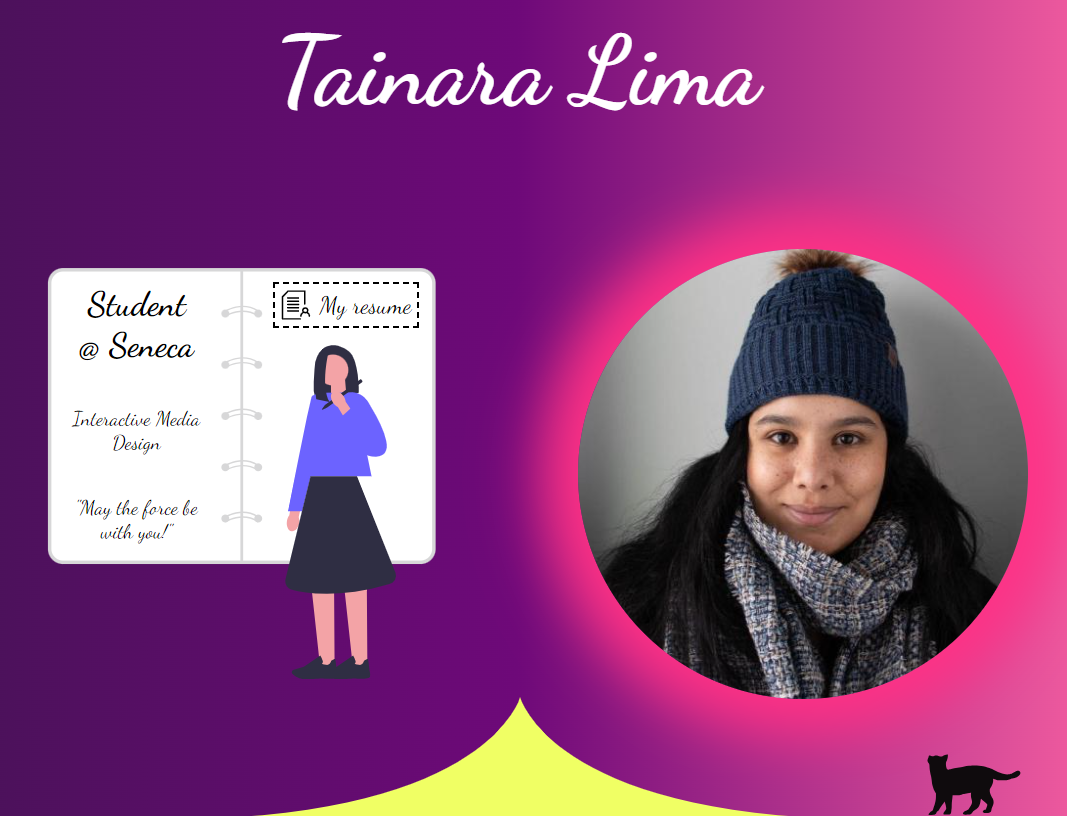
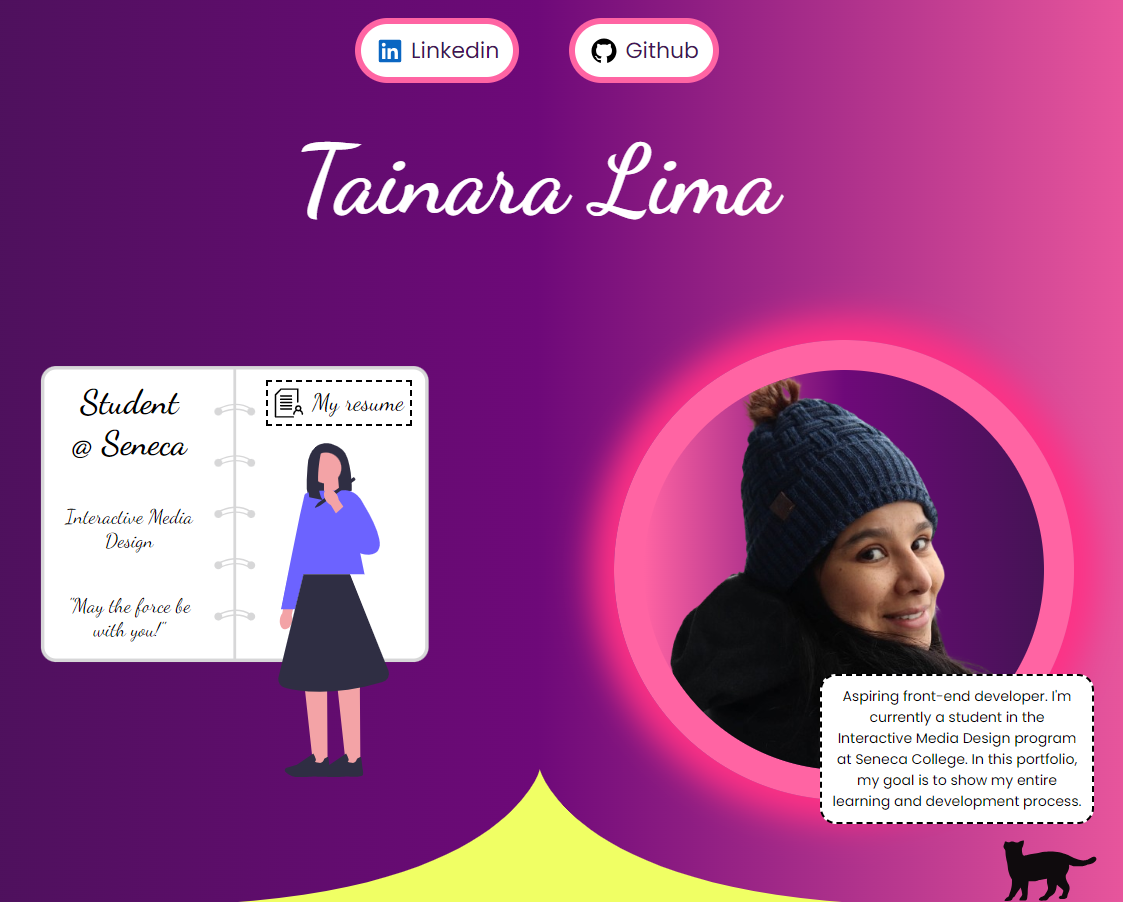
Changed portfolio image and improved responsiveness

diff --git a/static/css/styles.css b/static/css/styles.css
@@ -127,7 +127,7 @@ growing up to a point until it resets and start all over again */
 
 #intro {
   position: absolute;
-  bottom: -40px;
+  bottom: -34px;
   right: -20px;
   max-width: 250px;
   padding: 10px;
@@ -427,7 +427,7 @@ footer img {
 /* Responsive css */
 /* This is where I change some of the styles for responsiveness on mobile, tablets and smaller screens */
 /* I created 2 different media screen sizes, because some of the elements needed to change at different width sizes */
-@media screen and (max-width: 1100px) {
+@media screen and (max-width: 1100px), screen and (max-height: 860px) {
   #bio {
     height: 100%;
   }
@@ -485,5 +485,11 @@ footer img {
     align-items: center;
     justify-content: end;
     gap: 10px;
+  }
+}
+
+@media screen and (max-height: 900px) {
+  #cat {
+    right: 15px;
   }
 }
